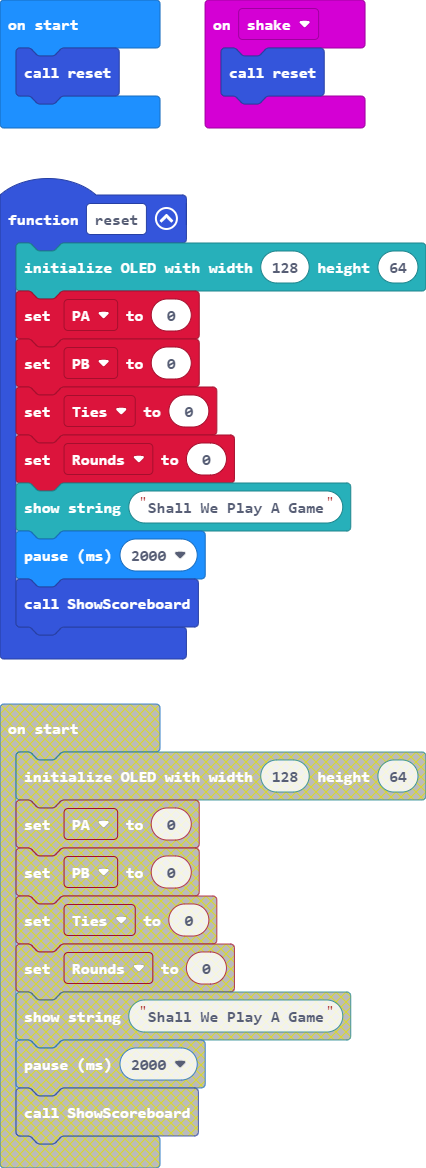
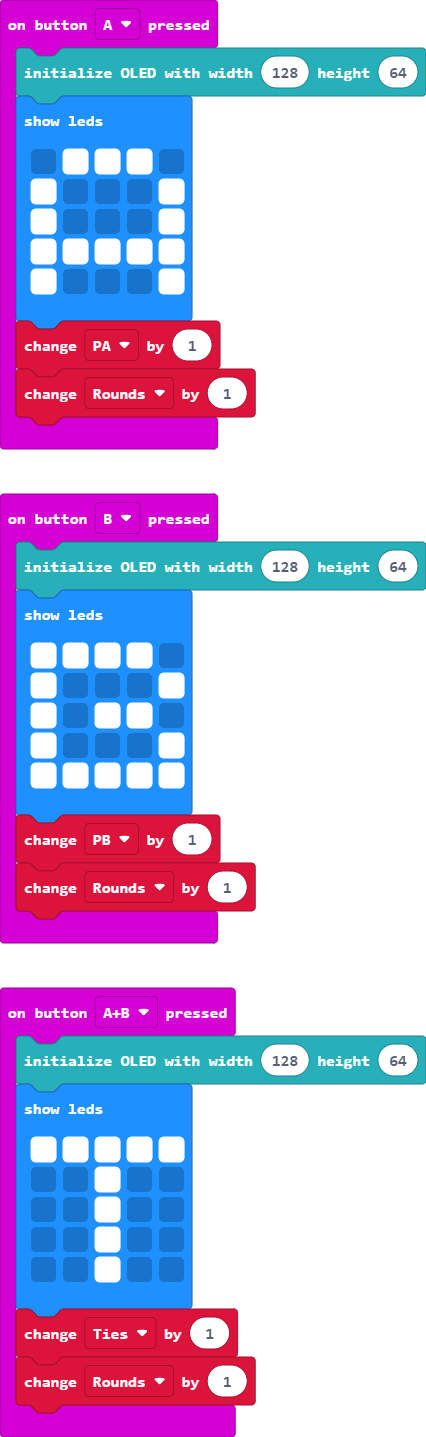
Update main.blocks, main.ts

diff --git a/main.ts b/main.ts
@@ -1,3 +1,15 @@
+input.onButtonPressed(Button.A, function () {
+    OLED.init(128, 64)
+    basic.showLeds(`
+        . # # # .
+        # . . . #
+        # . . . #
+        # # # # #
+        # . . . #
+        `)
+    PA += 1
+    Rounds += 1
+})
 function ShowScoreboard () {
     OLED.clear()
     OLED.writeStringNewLine("PLayer A: " + PA)
@@ -8,6 +20,30 @@ function ShowScoreboard () {
     OLED.newLine()
     OLED.writeStringNewLine("Rounds : " + Rounds)
 }
+input.onButtonPressed(Button.AB, function () {
+    OLED.init(128, 64)
+    basic.showLeds(`
+        # # # # #
+        . . # . .
+        . . # . .
+        . . # . .
+        . . # . .
+        `)
+    Ties += 1
+    Rounds += 1
+})
+input.onButtonPressed(Button.B, function () {
+    OLED.init(128, 64)
+    basic.showLeds(`
+        # # # # .
+        # . . . #
+        # . # # .
+        # . . . #
+        # # # # #
+        `)
+    PB += 1
+    Rounds += 1
+})
 input.onGesture(Gesture.Shake, function () {
     reset()
 })
@@ -21,8 +57,8 @@ function reset () {
     basic.pause(2000)
     ShowScoreboard()
 }
-let Rounds = 0
 let Ties = 0
 let PB = 0
+let Rounds = 0
 let PA = 0
 reset()
